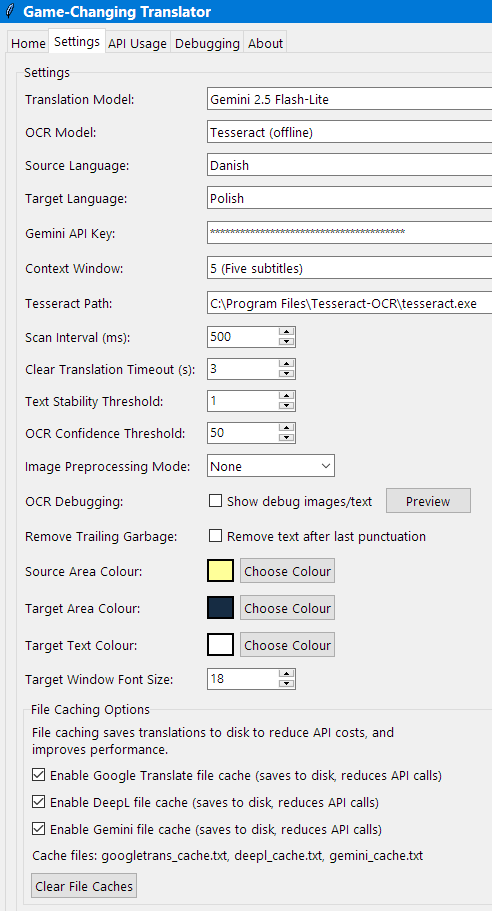
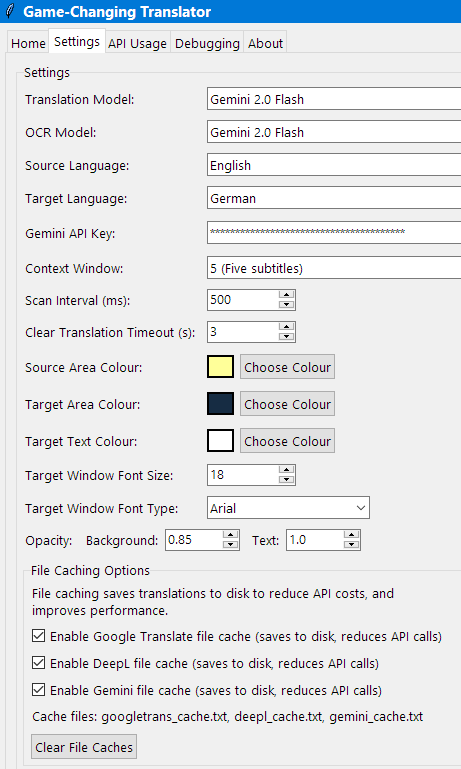
Docs update

Changed region(s): [[0.0, 0.0, 1.0, 0.9987], [0.7289, 0.6866, 0.7896, 0.7178]]

diff --git a/docs/installation_pl.html b/docs/installation_pl.html
@@ -149,7 +149,7 @@
     </div>
     <h1 id="installation-guide">Instrukcja instalacji</h1>
     <p>Copyright © 2025 Tomasz Kamiński<br>
-    <em>Ostatnia aktualizacja: 15 sierpnia 2025</em></p>
+    <em>Ostatnia aktualizacja: 6 września 2025</em></p>
 
     <p>Niniejsza instrukcja zawiera szczegółowe informacje dotyczące instalacji i konfiguracji programu <strong>Game-Changing Translator</strong>.</p>
 
@@ -194,7 +194,7 @@
     <h3 id="choose-your-version">Wybór wersji</h3>
     <p><strong>Game-Changing Translator</strong> dostępny jest w kilku wersjach dopasowanych do różnych potrzeb i konfiguracji sprzętowych:</p>
 
-    <h4 id="version-357-cpu-only-267mb-latest"><strong>Wersja 3.5.7 - wyłącznie CPU</strong> (ok. 267 MB) <em>[Najnowsza wersja]</em></h4>
+    <h4 id="version-357-cpu-only-267mb-latest"><strong>Wersja 3.5.8 - wyłącznie CPU</strong> (ok. 267 MB) <em>[Najnowsza wersja]</em></h4>
     <ul>
       <li><strong>Najlepsza dla</strong>: wszystkich użytkowników poszukujących najnowszych funkcji z zaawansowanym systemem Gemini Translation + Gemini OCR</li>
       <li><strong>Wymagania</strong>: dowolny nowoczesny procesor</li>
@@ -226,9 +226,9 @@
       <li>
         <p><strong>Pobierz wymagane pliki</strong> wybranej wersji:</p>
         <ul>
-          <li><strong>Wersja 3.5.7 (najnowsza):</strong> pobierz plik:
+          <li><strong>Wersja 3.5.8 (najnowsza):</strong> pobierz plik:
             <ul>
-              <li><code>GameChangingTranslator_CPU-only_v3.5.7.exe</code></li>
+              <li><code>GameChangingTranslator_CPU-only_v3.5.8.exe</code></li>
             </ul>
           </li>
           <li><strong>Wersja 2 GPU:</strong> pobierz WSZYSTKIE 3 pliki:
@@ -415,7 +415,7 @@ cd OCR-Translator</code></pre>
       <thead>
         <tr>
           <th>Funkcja</th>
-          <th>Wersja 3.5.7 (CPU)</th>
+          <th>Wersja 3.5.8 (CPU)</th>
           <th>Wersja 2 (GPU)</th>
           <th>Wersja 2 (CPU)</th>
           <th>Źródłowa Python</th>
@@ -520,7 +520,7 @@ cd OCR-Translator</code></pre>
 
     <h2 id="which-version-should-i-choose">Którą wersję wybrać?</h2>
 
-    <h3 id="choose-version-35-if">Wybierz <strong>wersję 3.5.7 – tylko CPU</strong>, jeśli:</h3>
+    <h3 id="choose-version-35-if">Wybierz <strong>wersję 3.5.8 – tylko CPU</strong>, jeśli:</h3>
     <ul>
       <li>chcesz mieć najnowsze funkcje i usprawnienia,</li>
       <li>preferujesz zaawansowaną integrację z Gemini API zapewniającą wyższą jakość tłumaczeń,</li>
@@ -554,7 +554,7 @@ cd OCR-Translator</code></pre>
       <li>czujesz się swobodnie w środowiskach programistycznych Python.</li>
     </ul>
 
-    <p>Dla większości użytkowników <strong>Wersja 3.5.7 - wyłącznie CPU</strong> zapewnia najlepszy kompromis między nowoczesnymi funkcjami, jakością tłumaczeń, prostotą obsługi i rozmiarem pliku do pobrania. Użytkownicy, którzy intensywnie korzystają z tłumaczeń offline MarianMT i posiadają kompatybilny sprzęt NVIDIA, mogą preferować Wersję 2 - z obsługą GPU dla maksymalnej wydajności offline.</p>
+    <p>Dla większości użytkowników <strong>Wersja 3.5.8 - wyłącznie CPU</strong> zapewnia najlepszy kompromis między nowoczesnymi funkcjami, jakością tłumaczeń, prostotą obsługi i rozmiarem pliku do pobrania. Użytkownicy, którzy intensywnie korzystają z tłumaczeń offline MarianMT i posiadają kompatybilny sprzęt NVIDIA, mogą preferować Wersję 2 - z obsługą GPU dla maksymalnej wydajności offline.</p>
 
   </body>
 </html>

diff --git a/docs/installation.html b/docs/installation.html
@@ -149,7 +149,7 @@
     </div>
     <h1 id="installation-guide">Installation Guide</h1>
     <p>Copyright © 2025 Tomasz Kamiński<br>
-    <em>Last Updated: 15 August 2025</em></p>
+    <em>Last Updated: 6 September 2025</em></p>
 
     <p>This guide provides detailed instructions for installing and setting up Game-Changing Translator on your system.</p>
 
@@ -194,7 +194,7 @@
     <h3 id="choose-your-version">Choose Your Version</h3>
     <p>Game-Changing Translator is available in multiple versions to suit different needs and hardware configurations:</p>
 
-    <h4 id="version-357-cpu-only-267mb-latest"><strong>Version 3.5.7 - CPU-Only</strong> (~267MB) <em>[Latest Version]</em></h4>
+    <h4 id="version-357-cpu-only-267mb-latest"><strong>Version 3.5.8 - CPU-Only</strong> (~267MB) <em>[Latest Version]</em></h4>
     <ul>
       <li><strong>Best for</strong>: All users seeking the latest features with superior Gemini Translation + Gemini OCR workflow</li>
       <li><strong>Requirements</strong>: Any modern CPU</li>
@@ -226,9 +226,9 @@
       <li>
         <p><strong>Download the required files</strong> for your chosen version:</p>
         <ul>
-          <li><strong>For Version 3.5.7 (Latest):</strong> Download the file:
+          <li><strong>For Version 3.5.8 (Latest):</strong> Download the file:
             <ul>
-              <li><code>GameChangingTranslator_CPU-only_v3.5.7.exe</code></li>
+              <li><code>GameChangingTranslator_CPU-only_v3.5.8.exe</code></li>
             </ul>
           </li>
           <li><strong>For Version 2 GPU:</strong> Download ALL 3 files:
@@ -415,7 +415,7 @@ cd OCR-Translator</code></pre>
       <thead>
         <tr>
           <th>Feature</th>
-          <th>Version 3.5.7 (CPU)</th>
+          <th>Version 3.5.8 (CPU)</th>
           <th>Version 2 (GPU)</th>
           <th>Version 2 (CPU)</th>
           <th>Python Source</th>
@@ -520,7 +520,7 @@ cd OCR-Translator</code></pre>
 
     <h2 id="which-version-should-i-choose">Which Version Should I Choose?</h2>
 
-    <h3 id="choose-version-35-if">Choose <strong>Version 3.5.7 - CPU-Only</strong> if:</h3>
+    <h3 id="choose-version-35-if">Choose <strong>Version 3.5.8 - CPU-Only</strong> if:</h3>
     <ul>
       <li>You want the latest features and improvements.</li>
       <li>You prefer advanced Gemini API integration with superior translation quality.</li>
@@ -554,7 +554,7 @@ cd OCR-Translator</code></pre>
       <li>You're comfortable with Python development environments.</li>
     </ul>
 
-    <p>For most users, <strong>Version 3.5.7 - CPU-Only</strong> provides the best balance of modern features, translation quality, ease-of-use, and download size. Users who heavily rely on MarianMT offline translation and have compatible NVIDIA hardware may prefer Version 2 - GPU-Supported for maximum offline performance.</p>
+    <p>For most users, <strong>Version 3.5.8 - CPU-Only</strong> provides the best balance of modern features, translation quality, ease-of-use, and download size. Users who heavily rely on MarianMT offline translation and have compatible NVIDIA hardware may prefer Version 2 - GPU-Supported for maximum offline performance.</p>
 
   </body>
 </html>

diff --git a/docs/user-manual_pl.html b/docs/user-manual_pl.html
@@ -214,7 +214,7 @@
     </div>
     <h1 id="game-changing-translator-user-manual">Instrukcja obsługi programu Game-Changing Translator</h1>
     <p>Copyright © 2025 Tomasz Kamiński<br>
-    <em>Ostatnia aktualizacja: 31 lipca 2025 r.</em></p>
+    <em>Ostatnia aktualizacja: 6 września 2025 r.</em></p>
     <p>
       <img src="screenshots/screenshot2_pol_deepl.jpg" alt="Główny interfejs Game-Changing Translator" class="logo-image" />
     </p>

diff --git a/docs/user-manual.html b/docs/user-manual.html
@@ -214,7 +214,7 @@
     </div>
     <h1 id="game-changing-translator-user-manual">Game-Changing Translator User Manual</h1>
     <p>Copyright © 2025 Tomasz Kamiński<br>
-    <em>Last Updated: 31 July 2025</em></p>
+    <em>Last Updated: 6 September 2025</em></p>
     <p>
       <img src="screenshots/screenshot2_eng_deepl.jpg" alt="Game-Changing Translator Main Interface" class="logo-image" />
     </p>

diff --git a/constants.py b/constants.py
@@ -11,9 +11,9 @@ RTL_LANGUAGES = {
 }
 
 # Version Management - Centralized version control
-APP_VERSION = "v3.5.9"
-APP_RELEASE_DATE = "4 September 2025"
-APP_RELEASE_DATE_POLISH = "4 września 2025"
+APP_VERSION = "v3.5.8"
+APP_RELEASE_DATE = "6 September 2025"
+APP_RELEASE_DATE_POLISH = "6 września 2025"
 GITHUB_API_URL = "https://api.github.com/repos/tomkam1702/OCR-Translator/releases/latest"
 
 def parse_version(version_str):

diff --git a/README.md b/README.md
@@ -70,6 +70,29 @@ This application was developed or rather vibe-coded with the support of the foll
 
 ## Key Features
 
+### 🚀 NEW in Version 3.5.8
+
+- **Auto-Update System**: Complete auto-update functionality accessible through "Check for Updates" button in the About tab
+  - GitHub API integration for checking latest releases automatically
+  - Simple one-click update process with progress tracking
+  - Safe update application with user file preservation
+  - Staging system for secure update downloads and installation
+- **Enhanced Typography Customisation**: Target Window Font Type selection allowing users to choose any Windows system font for translation display
+  - Expanded beyond the previous default Arial font limitation
+  - Access to complete Windows font library for personalised translation appearance
+  - Improved readability options to suit individual preferences and visual requirements
+- **Advanced Opacity Controls**: Independent transparency management for translation windows
+  - Separate background and text opacity sliders providing independent control (0.0 to 1.0 range)
+  - Replaced previous fixed 0.85 opacity preset with flexible user-defined transparency levels
+  - Enhanced visual integration allowing translation windows to blend seamlessly with any background content
+- **Improved Subtitle Display**: Enhanced formatting of conversational subtitles with proper line breaks for better readability in dialog-heavy content
+  - Previous format: `   - How are you? - Fine.    `  
+  - New format with proper line separation:
+    ```
+        - How are you?
+        - Fine.                 
+    ```
+
 ### 🚀 NEW in Version 3.5.7
 
 - **Persian Language Support**: Added comprehensive Persian language support to both Gemini API and Google Translate translation services

diff --git a/docs/README.md b/docs/README.md
@@ -70,6 +70,29 @@ This application was developed or rather vibe-coded with the support of the foll
 
 ## Key Features
 
+### 🚀 NEW in Version 3.5.8
+
+- **Auto-Update System**: Complete auto-update functionality accessible through "Check for Updates" button in the About tab
+  - GitHub API integration for checking latest releases automatically
+  - Simple one-click update process with progress tracking
+  - Safe update application with user file preservation
+  - Staging system for secure update downloads and installation
+- **Enhanced Typography Customisation**: Target Window Font Type selection allowing users to choose any Windows system font for translation display
+  - Expanded beyond the previous default Arial font limitation
+  - Access to complete Windows font library for personalised translation appearance
+  - Improved readability options to suit individual preferences and visual requirements
+- **Advanced Opacity Controls**: Independent transparency management for translation windows
+  - Separate background and text opacity sliders providing independent control (0.0 to 1.0 range)
+  - Replaced previous fixed 0.85 opacity preset with flexible user-defined transparency levels
+  - Enhanced visual integration allowing translation windows to blend seamlessly with any background content
+- **Improved Subtitle Display**: Enhanced formatting of conversational subtitles with proper line breaks for better readability in dialog-heavy content
+  - Previous format: `   - How are you? - Fine.    `  
+  - New format with proper line separation:
+    ```
+        - How are you?
+        - Fine.                 
+    ```
+
 ### 🚀 NEW in Version 3.5.7
 
 - **Persian Language Support**: Added comprehensive Persian language support to both Gemini API and Google Translate translation services

diff --git a/CHANGELOG.md b/CHANGELOG.md
@@ -13,6 +13,14 @@ and this project adheres to [Semantic Versioning](https://semver.org/spec/v2.0.0
   - Simple one-click update process with progress tracking
   - Safe update application with user file preservation
   - Staging system for secure update downloads and installation
+- **Target Window Font Type Selection**: Enhanced typography customisation allowing selection of any Windows system font for translation display
+  - Expanded beyond the previous default Arial font limitation
+  - Access to complete Windows font library for personalised translation appearance
+  - Improved readability options to suit individual preferences and visual requirements
+- **Independent Opacity Controls**: Granular transparency management for enhanced translation window customisation
+  - Separate background and text opacity sliders providing independent control (0.0 to 1.0 range)
+  - Replaced previous fixed 0.85 opacity preset with flexible user-defined transparency levels
+  - Enhanced visual integration allowing translation windows to blend seamlessly with any background content
 
 ### Changed
 - **Improved Subtitle Display for Dialogs**: Enhanced formatting of conversational subtitles with proper line breaks

diff --git a/docs/CHANGELOG.md b/docs/CHANGELOG.md
@@ -13,6 +13,14 @@ and this project adheres to [Semantic Versioning](https://semver.org/spec/v2.0.0
   - Simple one-click update process with progress tracking
   - Safe update application with user file preservation
   - Staging system for secure update downloads and installation
+- **Target Window Font Type Selection**: Enhanced typography customisation allowing selection of any Windows system font for translation display
+  - Expanded beyond the previous default Arial font limitation
+  - Access to complete Windows font library for personalised translation appearance
+  - Improved readability options to suit individual preferences and visual requirements
+- **Independent Opacity Controls**: Granular transparency management for enhanced translation window customisation
+  - Separate background and text opacity sliders providing independent control (0.0 to 1.0 range)
+  - Replaced previous fixed 0.85 opacity preset with flexible user-defined transparency levels
+  - Enhanced visual integration allowing translation windows to blend seamlessly with any background content
 
 ### Changed
 - **Improved Subtitle Display for Dialogs**: Enhanced formatting of conversational subtitles with proper line breaks
